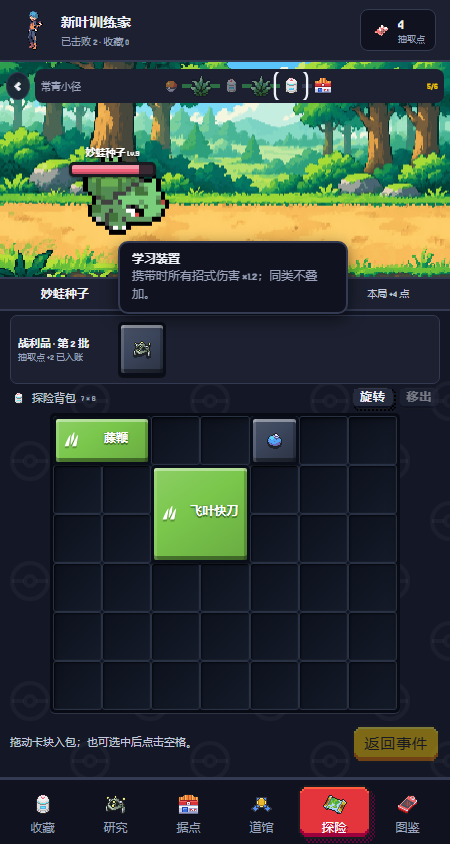
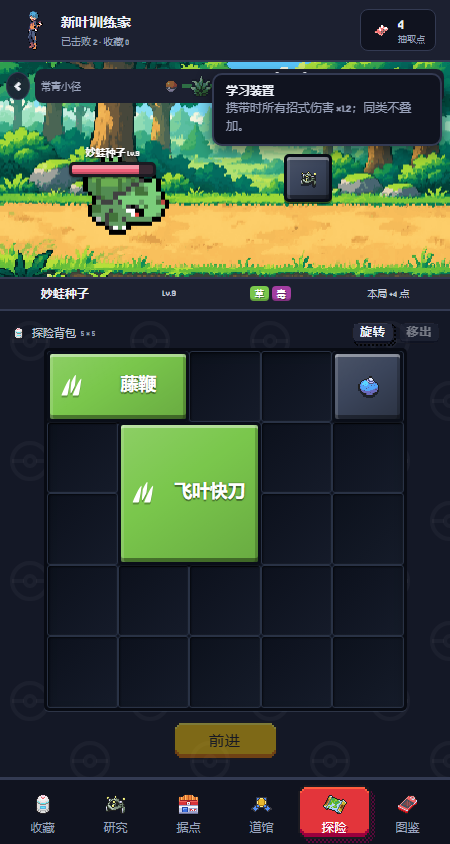
feat(poke): show scene drops with 5x5 bag and direct advance

Changed region(s): [[0.0311, 0.2773, 0.9956, 0.9242], [0.4356, 0.0616, 0.9956, 0.2464], [0.9022, 0.3697, 0.9644, 0.4005]]

diff --git a/outputs/laozu-web/poke/app.js b/outputs/laozu-web/poke/app.js
@@ -1,6 +1,6 @@
 (() => {
   'use strict';
-  const {KEY,TYPES}=PokeFusion,app=document.querySelector('#app');
+  const {KEY,TYPES,COLS,ROWS}=PokeFusion,app=document.querySelector('#app');
   let loaded=null,loadError='';
   try{loaded=JSON.parse(localStorage.getItem(KEY));}catch{loadError='存档读取失败，请先导出浏览器数据再处理。';}
   let M;try{M=PokeFusion.create(POKE_CATALOG,loaded);}catch(e){loadError=e.message;}
@@ -27,34 +27,34 @@
   function home(){return `<main class="home-page"><div class="home-canvas scene"><canvas id="scene" aria-label="宝可梦训练家据点，沿道路连接研究所、收藏室和探险入口"></canvas></div><div class="home-heading"><small>PALLET OUTPOST</small><h1>新叶据点</h1><p>整理行囊，遇见下一位伙伴。</p></div><div class="building b-research">${btn('nav:research',icon('research')+'<b>研究所</b><small>抽取规则</small>')}</div><div class="building b-collection">${btn('nav:collection',icon('collection')+'<b>收藏室</b><small>'+M.s.collection.length+' 位伙伴</small>')}</div><div class="building b-gym">${btn('nav:gym',icon('gym')+'<b>训练馆</b><small>收藏整备</small>')}</div><div class="home-quest"><span class="quest-seal">${icon('wander')}</span><div><b>${M.s.run?'探险中 · '+text(M.s.run.mon.speciesId):M.s.firstFree?'第一份探险邀请':'常青小径 · 新的旅途'}</b><small>${M.s.run?'本次进度已保存，点击下方继续':'击败宝可梦获得抽取点，结识新的伙伴'}</small></div></div><div class="home-portal">${btn('nav:wander',`<span class="portal-art">${icon('wander')}</span><b>${M.s.run?'继续探险':'开始探险'}</b><small>${M.s.firstFree?'首次抽取免费':'每次抽取 '+M.drawCost()+' 点'}</small>`,'round-start')}</div><div class="home-caption">单宝可梦出战 · 招式与道具背包构筑</div></main>`;}
   function drawScreen(){const r=M.s.run;return `<main class="draw-page"><div class="draw-stars"></div><small>POKÉMON EXPEDITION</small><h1>${r?.phase==='draw'?'正在结识伙伴':'探险邀请'}</h1><p>每次探险，一位全新的宝可梦。</p><img class="summon-image ${r?'rolling':''}" src="poke/items/poke-ball.png" alt="精灵球">${r?`<p role="status">图鉴正在记录新的伙伴……</p>`:`<div class="draw-offer"><b>初始伙伴</b><div>${[1,4,7].map(id=>img(id)).join('')}</div><p>妙蛙种子 / 小火龙 / 杰尼龟 · 等概率</p></div>${btn('draw',M.s.firstFree?'免费抽取第一位伙伴':`消耗 ${M.drawCost()} 抽取点`,'gold primary',M.s.points<M.drawCost())}${!M.s.firstFree&&M.s.points<M.drawCost()?btn('rescue','领取救援补给 · 补足至3点','soft'):''}<small>抽取后直接开始本局，不消耗精灵球。</small>`}${btn('home','返回据点','text-button')}</main>`;}
   function hp(value,max){const ratio=Math.max(0,Math.min(1,value/max));return `<div class="hp" role="progressbar" aria-label="生命值" aria-valuemin="0" aria-valuemax="${max}" aria-valuenow="${Math.ceil(value)}"><div style="width:${ratio*100}%;background:${ratio>.2?'#f0607a':'#d6334f'}"></div></div>`;}
-  function item(item,placement=false){const info=M.itemInfo(item),[w,h]=M.size(item);return `<button class="item ${item.kind} ${selected===item.uid?'selected':''} type-${info.type}" data-item="${item.uid}" aria-label="${esc(info.name+'，'+info.detail.replace(/ · 冷却 .*$/,''))}" ${tip===item.uid?'aria-describedby="item-tip"':''} ${placement?`style="left:${item.x/7*100}%;top:${item.y/6*100}%;width:${w/7*100}%;height:${h/6*100}%"`:''}>${item.kind==='move'?`<span class="move-line"><span class="type-well"><img class="source-type" src="poke/type-icons/symbols/${info.type}.svg" alt="${TYPES[info.type]}属性" draggable="false"></span><b>${esc(info.name)}</b></span>`:`<img class="held-art" src="poke/ui/${item.key==='oran-berry'?'berry-oran.png':'exp-share.png'}" alt="">`}</button>`;}
+  function item(item,placement=false){const info=M.itemInfo(item),[w,h]=M.size(item);return `<button class="item ${item.kind} ${selected===item.uid?'selected':''} type-${info.type}" data-item="${item.uid}" aria-label="${esc(info.name+'，'+info.detail.replace(/ · 冷却 .*$/,''))}" ${tip===item.uid?'aria-describedby="item-tip"':''} ${placement?`style="left:${item.x/COLS*100}%;top:${item.y/ROWS*100}%;width:${w/COLS*100}%;height:${h/ROWS*100}%"`:''}>${item.kind==='move'?`<span class="move-line"><span class="type-well"><img class="source-type" src="poke/type-icons/symbols/${info.type}.svg" alt="${TYPES[info.type]}属性" draggable="false"></span><b>${esc(info.name)}</b></span>`:`<img class="held-art" src="poke/ui/${item.key==='oran-berry'?'berry-oran.png':'exp-share.png'}" alt="">`}</button>`;}
   function itemTooltip(){const pick=[...(M.s.run?.items||[]),...(M.s.run?.pending||[])].find(i=>i.uid===tip);if(!pick||view!=='wander')return '';const info=M.itemInfo(pick);return `<div id="item-tip" class="bag-tip" role="tooltip"><b>${esc(info.name)}</b><p>${esc(info.detail.replace(/ · 冷却 .*$/,''))}</p></div>`;}
   function positionTip(){const box=app.querySelector('#item-tip'),anchor=app.querySelector(`[data-item="${tip}"]`);if(!box||!anchor)return;const root=app.getBoundingClientRect(),r=anchor.getBoundingClientRect();box.style.left=Math.max(8,Math.min(r.left-root.left,root.width-box.offsetWidth-8))+'px';const above=r.top-root.top-box.offsetHeight-8;box.style.top=(above>62?above:r.bottom-root.top+8)+'px';}
   function route(r){const current=r.phase==='ready'?0:r.phase==='settlement'?5:r.stage*2+(['reward','event'].includes(r.phase)?2:1),nodes=[['伙伴','poke-ball.png'],['遭遇','tallgrass-icon.png'],['奖励','storage.png'],['遭遇','tallgrass-icon.png'],['奖励','storage.png'],['结算','pokecenter.png']];return `<div class="route"><button class="route-back" data-action="home" aria-label="返回据点">‹</button><div class="tl-rail"><span class="tl-zone">常青小径</span><div class="timeline" aria-label="冒险进度">${nodes.map(([label,asset],i)=>`${i?`<i class="tl-link ${i<=current?'on':''}"></i>`:''}<span class="tl-node ${i===1||i===3?'wild':'ev'} ${i<current?'done':i===current?'current':''}" ${i===current?'aria-current="step"':''} title="${label}"><img src="poke/${asset==='poke-ball.png'||asset==='storage.png'?'items':'ui'}/${asset}" alt="${label}"></span>`).join('')}</div><span class="tl-count">${current+1}/6</span></div></div>`;}
-  function board(r){return `<div class="board-wrap"><div class="board" aria-label="七列六行背包，点击物品后点击格子放置"><div class="cells">${Array.from({length:42},(_,i)=>`<button data-cell="${i}" aria-label="第${Math.floor(i/7)+1}行第${i%7+1}列"></button>`).join('')}</div>${r.items.map(i=>item(i,true)).join('')}</div></div>`;}
+  function board(r){return `<div class="board-wrap"><div class="board" aria-label="五列五行背包，点击物品后点击格子放置"><div class="cells">${Array.from({length:COLS*ROWS},(_,i)=>`<button data-cell="${i}" aria-label="第${Math.floor(i/COLS)+1}行第${i%COLS+1}列"></button>`).join('')}</div>${r.items.map(i=>item(i,true)).join('')}</div></div>`;}
   function explore(){const r=M.s.run;if(!r||r.phase==='draw')return drawScreen();
     const b=r.battle,phase=r.phase,editing=['ready','reward','event'].includes(phase),pick=[...r.items,...r.pending].find(i=>i.uid===selected);
     let lower='';
     if(phase==='settlement'){
       lower=`<section class="settlement"><small>EXPEDITION REPORT</small><h2>${r.outcome==='graduated'?'探险毕业':'救援归来'}</h2><div class="graduate">${img(r.mon.speciesId)}<div><b>${text(r.mon.speciesId)}</b><p>Lv.${r.mon.level} · ${M.species(r.mon.speciesId).types.map(badge).join('')}</p></div></div><dl><div><dt>本次获得抽取点</dt><dd>+${r.earned}</dd></div><div><dt>当前抽取点</dt><dd>${M.s.points}</dd></div></dl><p>确认后将本局宝可梦收入收藏。<br>招式背包仅属于本次探险。</p>${btn('settle','收入收藏','gold primary')}</section>`;
     }else{
-      const pool=phase==='reward'?`<section class="reward-pool" aria-label="待领取奖励"><div><b>战利品 · 第 ${r.stage+1} 批</b><small>抽取点 +2 已入账</small></div><div class="reward-items">${r.pending.map(i=>item(i)).join('')||'<span class="all-packed">奖励已全部装入背包</span>'}</div></section>`:`<div class="phase-note"><b>${phase==='ready'?'伙伴已就绪':phase==='event'?'探险记录':'自动战斗中'}</b><span>${phase==='ready'?'携带招式，向常青小径出发。':phase==='event'?esc(r.log.at(-1)):esc(b?.lastHit?.actor==='player'?M.moveName(b.lastHit.move)+' · '+b.lastHit.amount+'伤害':'招式按冷却自动释放')}</span></div>`;
-      lower=`<section class="workspace">${pool}<div class="pack-tools"><b>${icon('bag')}探险背包 <small>7 × 6</small></b>${editing?`${btn('rotate','旋转','mini',!pick)}${btn('withdraw','移出','mini',!pick||pick.x==null)}`:'<span class="battle-label">战斗中锁定</span>'}</div>${board(r)}<div class="pack-footer"><p aria-live="polite">${editing?'拖动卡块入包；也可选中后点击空格。':'携带道具和招式正在实际生效。'}</p>${phase==='ready'?btn('battle','出发','gold'):phase==='reward'?btn('reward-done','返回事件','gold',r.pending.length>0):phase==='event'?btn('continue',r.stage===0?'继续探险':'完成探险','gold'):'<span class="fighting-dot">战斗进行中</span>'}</div></section>`;
+      lower=`<section class="workspace"><div class="pack-tools"><b>${icon('bag')}探险背包 <small>5 × 5</small></b>${editing?`${btn('rotate','旋转','mini',!pick)}${btn('withdraw','移出','mini',!pick||pick.x==null)}`:'<span class="battle-label">战斗中锁定</span>'}</div>${board(r)}<div class="pack-footer">${editing?btn('forward','前进','gold',r.pending.length>0):'<span class="fighting-dot">战斗进行中</span>'}</div></section>`;
     }
-    return `<main class="explore-page phase-${phase}"><h1 class="sr-only">常青小径探险</h1><section class="battle-scene scene"><canvas id="scene" aria-label="常青小径探险战斗场景"></canvas>${route(r)}<div class="combat-status own"><b>${text(r.mon.speciesId)} <small>Lv.${r.mon.level}</small></b>${hp(r.hp,r.maxHp)}</div>${phase==='battle'?`<div class="combat-status foe"><b>${text(b.speciesId)}</b>${hp(b.hp,b.maxHp)}</div>`:''}<div class="scene-caption">${phase==='battle'?'属性克制 · 招式自动释放':phase==='reward'?'遭遇胜利 · 整理战利品':phase==='settlement'?'本次旅途已记录':'一人一包，继续前行'}</div></section><div class="stat-strip"><b>${text(r.mon.speciesId)}</b><span>Lv.${r.mon.level}</span><span>${M.species(r.mon.speciesId).types.map(badge).join('')}</span><span>本局 +${r.earned} 点</span></div>${lower}</main>`;
+    return `<main class="explore-page phase-${phase}"><h1 class="sr-only">常青小径探险</h1><section class="battle-scene scene"><canvas id="scene" aria-label="常青小径探险战斗场景"></canvas>${route(r)}${editing&&r.pending.length?`<section class="reward-pool scene-drops" aria-label="待领取奖励"><div class="reward-items">${r.pending.map(i=>item(i)).join('')}</div></section>`:''}<div class="combat-status own"><b>${text(r.mon.speciesId)} <small>Lv.${r.mon.level}</small></b>${hp(r.hp,r.maxHp)}</div>${phase==='battle'?`<div class="combat-status foe"><b>${text(b.speciesId)}</b>${hp(b.hp,b.maxHp)}</div>`:''}<div class="scene-caption">${phase==='battle'?'属性克制 · 招式自动释放':phase==='reward'?'遭遇胜利 · 整理战利品':phase==='settlement'?'本次旅途已记录':'一人一包，继续前行'}</div></section><div class="stat-strip"><b>${text(r.mon.speciesId)}</b><span>Lv.${r.mon.level}</span><span>${M.species(r.mon.speciesId).types.map(badge).join('')}</span><span>本局 +${r.earned} 点</span></div>${lower}</main>`;
   }
   function collection(){return `<main class="list-page"><div class="page-title"><small>YOUR PARTNERS</small><h1>宝可梦收藏</h1><p>毕业伙伴长期保留。核心探险每次结识新伙伴。</p></div><div class="collection-list">${M.s.collection.length?M.s.collection.map(mon=>`<article class="mon-card">${img(mon.speciesId)}<div><b>${text(mon.speciesId)}</b><p>Lv.${mon.level} · ${M.species(mon.speciesId).types.map(badge).join('')}</p><small>探险 #${mon.originRun} · ${mon.outcome==='graduated'?'毕业':'救援归来'}</small></div></article>`).join(''):'<div class="empty-state">'+icon('collection')+'<h2>第一位伙伴正在路上</h2><p>完成探险，在结算时收入收藏。</p></div>'}</div>${btn('nav:wander',M.s.run?'回到当前探险':'开始新的探险','gold primary')}</main>`;}
   function research(){return `<main class="list-page"><div class="page-title"><small>RESEARCH LAB</small><h1>伙伴研究所</h1><p>每次抽取，都开启一次新的背包构筑。</p></div><div class="research-starters">${[1,4,7].map(id=>`<article>${img(id)}<b>${text(id)}</b>${M.species(id).types.map(badge).join('')}<small>初始 Lv.5 · 概率 1/3</small></article>`).join('')}</div><section class="paper"><h2>抽取与探险</h2><p>首次免费。之后每次消耗3抽取点；每击败一只宝可梦获得2点，立即保存。</p><p>一次常青小径探险包含两场战斗。结算后伙伴收入收藏，背包重新开始。</p><p>若探险中止且不足3点，可领取补足至3点的救援补给。</p></section>${btn('nav:wander',M.s.run?'继续当前探险':'前往抽取','gold primary')}</main>`;}
   function gym(){return `<main class="list-page"><div class="page-title"><small>TRAINER HALL</small><h1>训练馆整备</h1><p>查看收藏伙伴的六维基础，准备后续道馆挑战。</p></div>${M.s.collection.length?M.s.collection.map(mon=>{const d=M.species(mon.speciesId);return `<article class="paper"><div class="graduate">${img(mon.speciesId)}<div><b>${text(mon.speciesId)}</b><p>Lv.${mon.level}</p></div></div><div class="six-stats">${Object.entries(d.stats).map(([k,v])=>`<span>${({hp:'生命',atk:'物攻',def:'物防',spa:'特攻',spd:'特防',spe:'速度'})[k]}<b>${v}</b></span>`).join('')}</div></article>`;}).join(''):'<section class="empty-state">'+icon('gym')+'<h2>先结识你的伙伴</h2><p>探险结算后，可在此查看收藏伙伴。</p></section>'}<p class="scope-note">本版开放伙伴整备；道馆对战与对战塔属于后续阶段。</p>${btn('nav:collection','查看收藏','soft')}</main>`;}
   function dex(){const owned=new Set(M.s.collection.map(x=>x.speciesId));return `<main class="list-page"><div class="page-title"><small>POKÉDEX</small><h1>宝可梦图鉴 <small>${owned.size} / ${POKE_CATALOG.POKEDEX.length}</small></h1><p>物种与形态来自已保存的 PokeCatch 数据。</p></div><div class="dex-grid">${POKE_CATALOG.POKEDEX.map(d=>`<article class="dex-card ${owned.has(d.id)?'owned':''}"><small>#${String(d.id).padStart(3,'0')}</small>${img(d.id)}<b>${esc(text(d.id))}</b><span>${owned.has(d.id)?'已收藏':d.types.map(t=>TYPES[t]||t).join(' / ')}</span></article>`).join('')}</div></main>`;}
   function render(){const focusAction=document.activeElement?.dataset?.action;app.innerHTML=header()+(view==='home'?home():view==='wander'?explore():view==='collection'?collection():view==='research'?research():view==='gym'?gym():dex())+nav()+itemTooltip();fitBoard();drawScene();positionTip();if(focusAction)app.querySelector(`[data-action="${focusAction}"]`)?.focus({preventScroll:true});}
-  function fitBoard(){const box=app.querySelector('.board-wrap'),board=app.querySelector('.board');if(!box||!board)return;board.style.width=Math.max(0,Math.min(box.clientWidth,box.clientHeight*7/6))+'px';}
+  function fitBoard(){const box=app.querySelector('.board-wrap'),board=app.querySelector('.board');if(!box||!board)return;board.style.width=Math.max(0,Math.min(box.clientWidth,box.clientHeight*COLS/ROWS))+'px';}
   function scheduleReveal(){clearTimeout(drawTimer);if(M.s.run?.phase==='draw')drawTimer=setTimeout(()=>{if(M.s.run?.phase==='draw'){M.reveal();save();render();}},1200);}
   function act(action){tip=null;try{
     if(action==='home'){view='home';selected=null;}
     else if(action.startsWith('nav:')){view=action.slice(4);selected=null;}
     else if(action==='draw'){M.draw();save();scheduleReveal();}
     else if(action==='rescue'){M.rescue();save();toast('救援补给已补足至3点');}
+    else if(action==='forward'){M.forward();save();selected=null;}
     else if(action==='battle'){M.startBattle();save();selected=null;}
     else if(action==='rotate'){M.rotate(selected);save();}
     else if(action==='withdraw'){M.withdraw(selected);save();}
@@ -63,10 +63,10 @@
     else if(action==='settle'){const mon=M.settle();save();view='collection';toast(text(mon.speciesId)+'已收入收藏');}
     render();
   }catch(e){toast(e.message);}}
-  app.addEventListener('click',e=>{const a=e.target.closest('[data-action]');if(a){if(!a.disabled)act(a.dataset.action);return;}const item=e.target.closest('[data-item]');if(item){selected=item.dataset.item;tip=tip===selected?null:selected;render();return;}const cell=e.target.closest('[data-cell]');if(cell&&selected){tip=null;try{const i=+cell.dataset.cell;M.place(selected,i%7,Math.floor(i/7));save();render();}catch(e){toast(e.message);}}});
+  app.addEventListener('click',e=>{const a=e.target.closest('[data-action]');if(a){if(!a.disabled)act(a.dataset.action);return;}const item=e.target.closest('[data-item]');if(item){selected=item.dataset.item;tip=tip===selected?null:selected;render();return;}const cell=e.target.closest('[data-cell]');if(cell&&selected){tip=null;try{const i=+cell.dataset.cell;M.place(selected,i%COLS,Math.floor(i/COLS));save();render();}catch(e){toast(e.message);}}});
   app.addEventListener('pointerdown',e=>{const item=e.target.closest('[data-item]');if(!item||!['ready','reward','event'].includes(M.s.run?.phase)||e.button!==0)return;const rect=item.getBoundingClientRect(),data=[...M.s.run.items,...M.s.run.pending].find(x=>x.uid===item.dataset.item),[w,h]=M.size(data);drag={uid:data.uid,startX:e.clientX,startY:e.clientY,x:e.clientX,y:e.clientY,offsetX:data.x==null?0:Math.min(w-1,Math.floor((e.clientX-rect.left)/rect.width*w)),offsetY:data.y==null?0:Math.min(h-1,Math.floor((e.clientY-rect.top)/rect.height*h)),moved:false};item.setPointerCapture(e.pointerId);});
   app.addEventListener('pointermove',e=>{if(!drag)return;drag.x=e.clientX;drag.y=e.clientY;if(Math.hypot(drag.x-drag.startX,drag.y-drag.startY)>7){drag.moved=true;tip=null;app.querySelector('#item-tip')?.remove();let ghost=document.querySelector('#drag-ghost');if(!ghost){ghost=document.createElement('div');ghost.id='drag-ghost';const source=app.querySelector(`[data-item="${drag.uid}"]`);ghost.innerHTML=source.innerHTML;ghost.style.setProperty('--type',getComputedStyle(source).getPropertyValue('--type'));document.body.append(ghost);}ghost.style.left=e.clientX+'px';ghost.style.top=e.clientY+'px';}});
-  app.addEventListener('pointerup',e=>{if(!drag)return;const d=drag;drag=null;document.querySelector('#drag-ghost')?.remove();if(!d.moved)return;const rect=app.querySelector('.board')?.getBoundingClientRect();try{if(rect&&e.clientX>=rect.left&&e.clientX<rect.right&&e.clientY>=rect.top&&e.clientY<rect.bottom){M.place(d.uid,Math.floor((e.clientX-rect.left)/rect.width*7)-d.offsetX,Math.floor((e.clientY-rect.top)/rect.height*6)-d.offsetY);selected=d.uid;save();}else toast('未放入背包，物品保持原位');}catch(error){toast(error.message);}render();});
+  app.addEventListener('pointerup',e=>{if(!drag)return;const d=drag;drag=null;document.querySelector('#drag-ghost')?.remove();if(!d.moved)return;const rect=app.querySelector('.board')?.getBoundingClientRect();try{if(rect&&e.clientX>=rect.left&&e.clientX<rect.right&&e.clientY>=rect.top&&e.clientY<rect.bottom){M.place(d.uid,Math.floor((e.clientX-rect.left)/rect.width*COLS)-d.offsetX,Math.floor((e.clientY-rect.top)/rect.height*ROWS)-d.offsetY);selected=d.uid;save();}else toast('未放入背包，物品保持原位');}catch(error){toast(error.message);}render();});
   app.addEventListener('pointercancel',()=>{drag=null;document.querySelector('#drag-ghost')?.remove();});
   document.addEventListener('pointerdown',e=>{if(tip&&!e.target.closest('[data-item]')&&!e.target.closest('#item-tip')){tip=null;app.querySelector('#item-tip')?.remove();}});
   window.addEventListener('keydown',e=>{if(e.key==='Escape'&&tip){tip=null;render();return;}if(e.key.toLowerCase()==='r'&&selected)act('rotate');if(e.key.toLowerCase()==='f'){if(document.fullscreenElement)document.exitFullscreen?.();else app.requestFullscreen?.().catch(()=>{});}if(e.key==='Escape'){drag=null;document.querySelector('#drag-ghost')?.remove();view='home';render();}});
@@ -86,7 +86,7 @@
       if(recent&&r.phase==='battle'){const x=hit.actor==='player'?w*.77:w*.25,y=hit.actor==='player'?h*.42:h*.57;c.font='bold 22px system-ui';c.textAlign='center';c.strokeStyle='#443a30';c.lineWidth=3;c.fillStyle=hit.actor==='heal'?'#b5ec9d':'#fff1bc';c.strokeText((hit.actor==='heal'?'+':'−')+hit.amount,x,y);c.fillText((hit.actor==='heal'?'+':'−')+hit.amount,x,y);}
     }
   }
-  window.render_game_to_text=()=>JSON.stringify({view,coordinateSystem:'board origin top-left; x right 0..6, y down 0..5',points:M.s.points,defeats:M.s.defeats,firstFree:M.s.firstFree,collection:M.s.collection,run:M.s.run,selected});
+  window.render_game_to_text=()=>JSON.stringify({view,coordinateSystem:'board origin top-left; x right 0..4, y down 0..4',points:M.s.points,defeats:M.s.defeats,firstFree:M.s.firstFree,collection:M.s.collection,run:M.s.run,selected});
   window.advanceTime=ms=>{if(view==='wander'&&M.s.run?.phase==='battle'){M.tick(ms);save();render();}};
   let last=performance.now(),acc=0;function frame(now){const dt=Math.min(100,now-last);last=now;if(!document.hidden&&view==='wander'&&M.s.run?.phase==='battle'){acc+=dt;if(acc>=100){M.tick(acc);acc=0;save();render();}}requestAnimationFrame(frame);}requestAnimationFrame(frame);
   save();render();scheduleReveal();

diff --git a/outputs/laozu-web/poke/model.js b/outputs/laozu-web/poke/model.js
@@ -5,7 +5,7 @@
   else root.PokeFusion = api;
 })(globalThis, () => {
   'use strict';
-  const KEY = 'poke-fusion-v1', COST = 3, COLS = 7, ROWS = 6;
+  const KEY = 'poke-fusion-v1', COST = 3, COLS = 5, ROWS = 5;
   const NAMES = {1:'妙蛙种子',4:'小火龙',7:'杰尼龟',10:'绿毛虫',16:'波波',19:'小拉达',25:'皮卡丘'};
   const MOVE_NAMES = {'vine-whip':'藤鞭',ember:'火花','water-gun':'水枪',tackle:'撞击',scratch:'抓','razor-leaf':'飞叶快刀','fire-fang':'火焰牙','water-pulse':'水之波动'};
   const TYPES = {normal:'一般',fire:'火',water:'水',grass:'草',electric:'电',poison:'毒',flying:'飞行',bug:'虫',rock:'岩石',ground:'地面',ice:'冰',psychic:'超能',ghost:'幽灵',dragon:'龙',dark:'恶',steel:'钢',fairy:'妖精',fighting:'格斗'};
@@ -25,7 +25,7 @@
       const primary = {1:'vine-whip',4:'ember',7:'water-gun'}[id];
       const runId = ++s.sequence;
       s.points -= cost; s.firstFree = false;
-      s.run = {id:runId,mon:{uid:'run-'+runId,speciesId:id,level:5},phase:'draw',stage:0,hp:90,maxHp:90,earned:0,elapsed:0,battle:null,items:[{uid:'r'+runId+'-0',kind:'move',key:primary,w:2,h:1,x:0,y:0,rotation:0}],pending:[],log:[name(id)+'加入本次探险。'],nextItem:1,outcome:null};
+      s.run = {id:runId,boardSize:'5x5',mon:{uid:'run-'+runId,speciesId:id,level:5},phase:'draw',stage:0,hp:90,maxHp:90,earned:0,elapsed:0,battle:null,items:[{uid:'r'+runId+'-0',kind:'move',key:primary,w:2,h:1,x:0,y:0,rotation:0}],pending:[],log:[name(id)+'加入本次探险。'],nextItem:1,outcome:null};
       return def;
     }
     function reveal() { need('draw').phase = 'ready'; }
@@ -37,6 +37,20 @@
         if (other.uid === item.uid || other.x == null) return false;
         const [ow,oh] = size(other); return x<other.x+ow && x+w>other.x && y<other.y+oh && y+h>other.y;
       });
+    }
+    // Keep all owned items when restoring an older, wider backpack.
+    if(s.run && s.run.boardSize !== '5x5'){
+      const r=s.run,old=[...r.items];r.items=[];
+      for(const item of old){
+        if(!fits(item,item.x,item.y)){
+          let found=false;
+          for(let y=0;y<ROWS&&!found;y++)for(let x=0;x<COLS&&!found;x++)if(fits(item,x,y)){item.x=x;item.y=y;found=true;}
+          if(!found){item.x=null;item.y=null;r.pending.push(item);continue;}
+        }
+        r.items.push(item);
+      }
+      r.boardSize='5x5';
+      if(r.pending.length&&r.phase==='battle'){r.phase='ready';r.battle=null;}
     }
     const editable = () => { if (!s.run || !['ready','reward','event'].includes(s.run.phase)) throw Error('战斗中不能整理背包'); return s.run; };
     function place(uid, x, y) {
@@ -105,6 +119,12 @@
     function proceed() {
       const r=need('event');if(r.stage===0){r.stage=1;startBattle();}else{r.phase='settlement';r.outcome='graduated';r.log.push('常青小径探险完成！');}
     }
+    function forward(){
+      if(s.run?.pending.length)throw Error('请先将待领取物品装入背包');
+      if(s.run?.phase==='ready')return startBattle();
+      if(s.run?.phase==='reward')completeReward();
+      return proceed();
+    }
     function settle() {
       const r=need('settlement');
       if(s.settled.includes(r.id))throw Error('本次探险已结算');
@@ -119,7 +139,7 @@
       if(item.kind==='move'){const m=catalog.MOVES[item.key];return {name:moveName(item.key),type:m.type,detail:(m.cat==='spec'?'特殊':'物理')+' · 威力 '+m.power+' · 冷却 '+(item.w*item.h>=4?'2.6':'1.8')+'秒'};}
       return item.key==='oran-berry'?{name:'橙橙果',type:'grass',detail:'生命不高于55%时恢复25生命；每场战斗一次。'}:{name:'学习装置',type:'normal',detail:'携带时所有招式伤害 ×1.2；同类不叠加。'};
     }
-    return {s,species,name,moveName,drawCost,draw,reveal,size,fits,place,rotate,withdraw,startBattle,tick,completeReward,proceed,settle,rescue,itemInfo,damage};
+    return {s,species,name,moveName,drawCost,draw,reveal,size,fits,place,rotate,withdraw,startBattle,tick,completeReward,proceed,forward,settle,rescue,itemInfo,damage};
   }
   return {KEY,COST,COLS,ROWS,TYPES,create};
 });

diff --git a/outputs/laozu-web/poke/battle-ui.css b/outputs/laozu-web/poke/battle-ui.css
@@ -106,3 +106,22 @@
 .item.selected,.item.move.selected{outline:none;border-color:#ffe18b;box-shadow:inset 0 3px 0 #fff7,inset 3px 0 0 #fff3,inset 0 -4px 0 #0005,0 0 0 1px #8d6826,0 0 10px #ffcb054d;z-index:2}
 .item.held .held-art{filter:drop-shadow(0 2px 0 #0007)}
 #drag-ghost{border:3px solid #ffe18b;border-radius:5px;box-shadow:inset 0 3px 0 #fff5,inset 0 -4px 0 #0006,0 8px 16px #0007;padding:4px;background:var(--type,#3b455b)}
+
+/* Compact square backpack, scene drops, one centered advance action. */
+.board{aspect-ratio:1 / 1}
+.cells{grid-template-columns:repeat(5,1fr);grid-template-rows:repeat(5,1fr)}
+.scene-drops.reward-pool{position:absolute;left:40%;right:3%;top:43%;height:auto;min-height:50px;background:none;border:0;padding:0;z-index:3;display:block}
+.scene-drops .reward-items{display:flex;justify-content:center;align-items:center;gap:7px;flex-wrap:wrap}
+.scene-drops .reward-items .item.move{width:105px;height:55px}
+.scene-drops .reward-items .item.held{width:48px;height:48px}
+.pack-footer{flex-direction:column;justify-content:center;gap:6px;min-height:79px}
+.pack-footer>p{max-width:100%;text-align:center}
+.pack-footer .gold{min-width:105px;padding:10px 24px}
+.phase-reward .workspace{padding-top:8px}
+@media(max-height:650px){.pack-footer{min-height:65px;gap:3px}.pack-footer .gold{padding:7px 23px}.scene-drops.reward-pool{top:43%}.scene-drops .reward-items .item.move{width:87px;height:40px}.scene-drops .reward-items .item.held{width:38px;height:38px}.scene-drops .reward-items{gap:4px}}
+
+.scene-drops.reward-pool>.reward-items:first-child{width:100%;flex-shrink:1}
+.scene-drops .reward-items .item{flex-shrink:0}
+
+.pack-footer{min-height:60px;padding:8px 0;gap:0}
+@media(max-height:650px){.pack-footer{min-height:49px;padding:5px 0}}

diff --git a/outputs/laozu-web/index.html b/outputs/laozu-web/index.html
@@ -13,7 +13,7 @@
 <script defer src="poke/catalog.js"></script>
 <script defer src="poke/model.js"></script>
 <script defer src="poke/app.js"></script>
-<link rel="stylesheet" href="poke/battle-ui.css?v=6">
+<link rel="stylesheet" href="poke/battle-ui.css?v=7">
 </head>
 <body class="px" data-theme="dark">
 <div id="app" aria-label="宝可梦行囊探险"><main><h1>宝可梦 · 行囊探险</h1><p>正在载入伙伴资料……</p></main></div>

diff --git a/tools/rea-pipeline/poke-fusion/SPEC.md b/tools/rea-pipeline/poke-fusion/SPEC.md
@@ -36,7 +36,7 @@
 
 7列×6行，左上原点，x向右、y向下。初始招式2×1，进阶招式2×2；橙橙果1×1，学习装置2×1。支持鼠标拖拽、触屏选择后点格、旋转、已装物品移出到当前待整理列表。
 
-放置前检查边界与碰撞；非法拖放不改变原位置。战斗中不允许改包。至少一个已携带招式才能开战。待领取奖励全部入包后才能返回事件；返回事件后点击继续，才进入下一战或结算。
+放置前检查边界与碰撞；非法拖放不改变原位置。战斗中不允许改包。至少一个已携带招式才能开战。待领取道具显示在上方场景，全部入包后点击下方中央的“前进”，直接进入下一战或结算；没有返回事件按钮。
 
 待整理列表是当前奖励事务的表现，不是独立可永久囤积的暂存池。本阶段没有重铸、合成、开格、商店及工具图鉴；不挂无效工具按钮。
 
@@ -84,3 +84,5 @@ battle（失败）→ settlement（救援）
 原资料目录位于 `D:/新建文件夹/2026-10-22/poke-catch-https-pokecatch-online-netlify/outputs/pokecatch-reference/`。运行产物已随分支提交；新机器游玩不依赖该绝对路径。
 
 UI中的物种多数仍保留源英文名，初始与遭遇物种有中文映射；没有宣称420条中文本地化完成。云端契约只作后续设计参考，本分支不连接原 Supabase。
+
+当前 UI 以中央“前进”一次完成 reward→event→下一战/结算，event 仅为内部过渡状态，不呈现中转页；旧存档停在 event 时也直接前进。

diff --git a/tools/rea-pipeline/poke-fusion/BATTLE-UI.md b/tools/rea-pipeline/poke-fusion/BATTLE-UI.md
@@ -40,3 +40,9 @@
 ## 背包积木外观（2026-10-23）
 
 技能与道具统一为凹槽中嵌入的砖块：深色外框、上沿高光、下沿厚阴影。技能整块覆盖属性色，白色图标和名称保持同行；按用户修正，块内部没有分割线，仅背包空格保留网格边界。拖拽影像继承属性色，选中状态用浅金外框。未改变占格、碰撞、旋转或战斗规则。23 项专项、30 项闭环与 33 项主题回归通过；窄屏截图已复核。
+
+## 5×5 与场景掉落（2026-10-23）
+
+背包改为 5×5，模型碰撞、拖拽坐标、旋转边界与视图同步。旧宽背包恢复时保留道具并重新排布越界卡块，无法容纳时放回待领取区。掉落显示在上方场景，不显示战利品标题或入账描述；下方中央统一“前进”，领取完整后直接进入下一战或结算，不展示事件中转页。删除拖入提示、已就绪及生效说明等常驻描述，功能信息仅点击浮窗显示。
+
+本轮验收：27 项模型（含旧存档缩格与领取门禁）、29 项界面专项（含无常驻说明、中央按钮、25 格）、30 项闭环、33 项主题通过。

diff --git a/tools/rea-pipeline/poke-fusion/ACCEPTANCE.md b/tools/rea-pipeline/poke-fusion/ACCEPTANCE.md
@@ -8,7 +8,7 @@
 - [x] P02 初始招式实际造成伤害，按冷却释放；自然计时能够赢得首战。
 - [x] P03 击败+2抽取点且只发一次；刷新回据点后仍保留当前奖励批次。
 - [x] P04 奖励真实拖拽入包、点选入包、旋转、移出；碰撞/越界不改变原位。
-- [x] P05 未领取完禁止返回事件；入包后返回事件，继续才推进第二战。
+- [x] P05 未领取完禁止前进；上方掉落道具全部入包后，中央前进直接推进第二战或结算。
 - [x] P06 新招式实际参与第二战，携带道具存在实际治疗/伤害增幅。
 - [x] P07 第二批整理→事件→毕业，点击结算只产生一个收藏实例。
 - [x] P08 收藏刷新保留，第二次抽取精确扣3点并重新生成局内背包。
